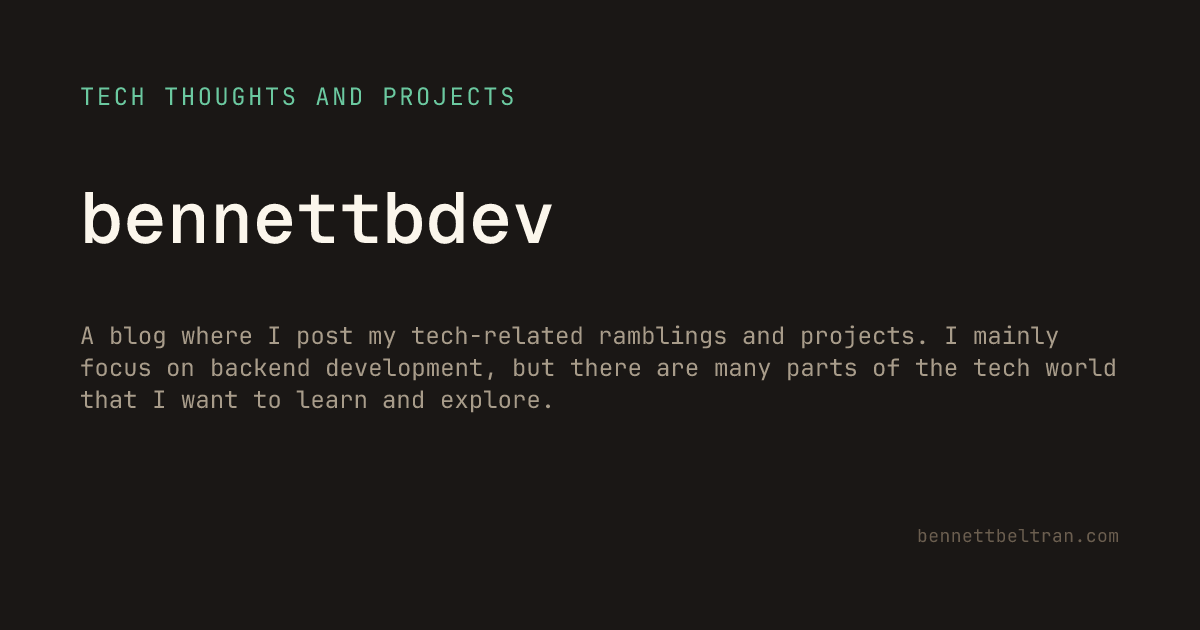
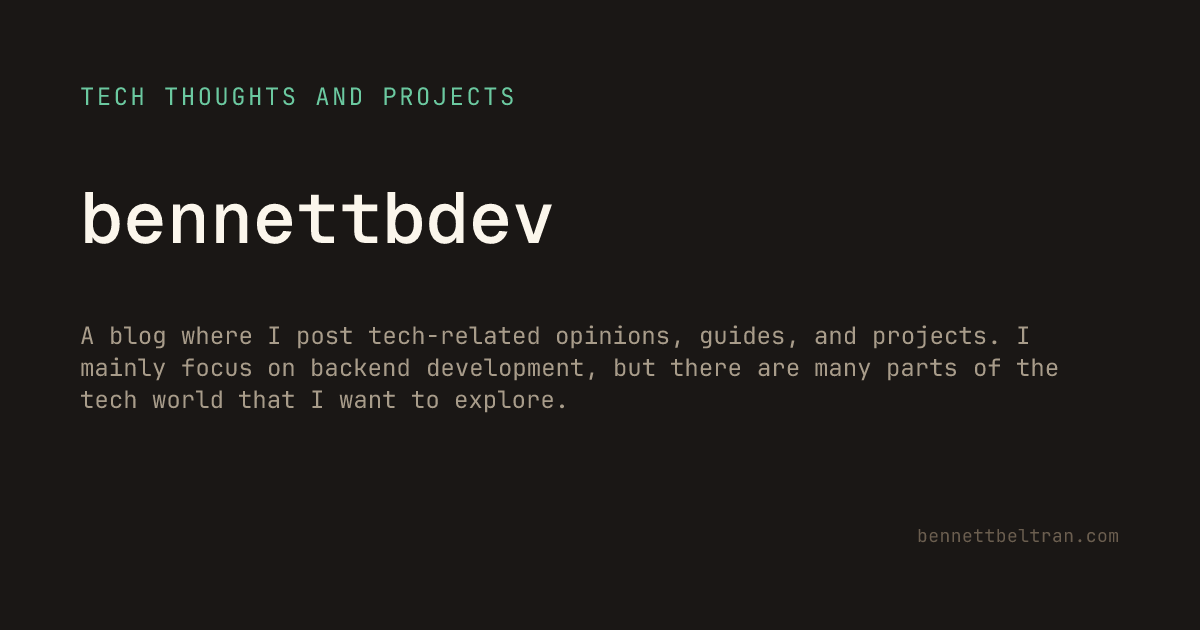
Update blog description + ensure social card matches site content

Changed region(s): [[0.0617, 0.5127, 0.925, 0.6635]]

diff --git a/src/site.config.ts b/src/site.config.ts
@@ -14,7 +14,7 @@ export const siteConfig: SiteConfig = {
 		},
 	},
 	description:
-    "A blog where I post tech-related opinions, guides, and projects. I mainly focus on backend development, but there are many parts of the tech world that I want to learn and explore.",
+    "A blog where I post tech-related opinions, guides, and projects. I mainly focus on backend development, but there are many parts of the tech world that I want to explore.",
 	lang: "en-US",
 	ogLocale: "en_US",
 	sortPostsByUpdatedDate: false,
